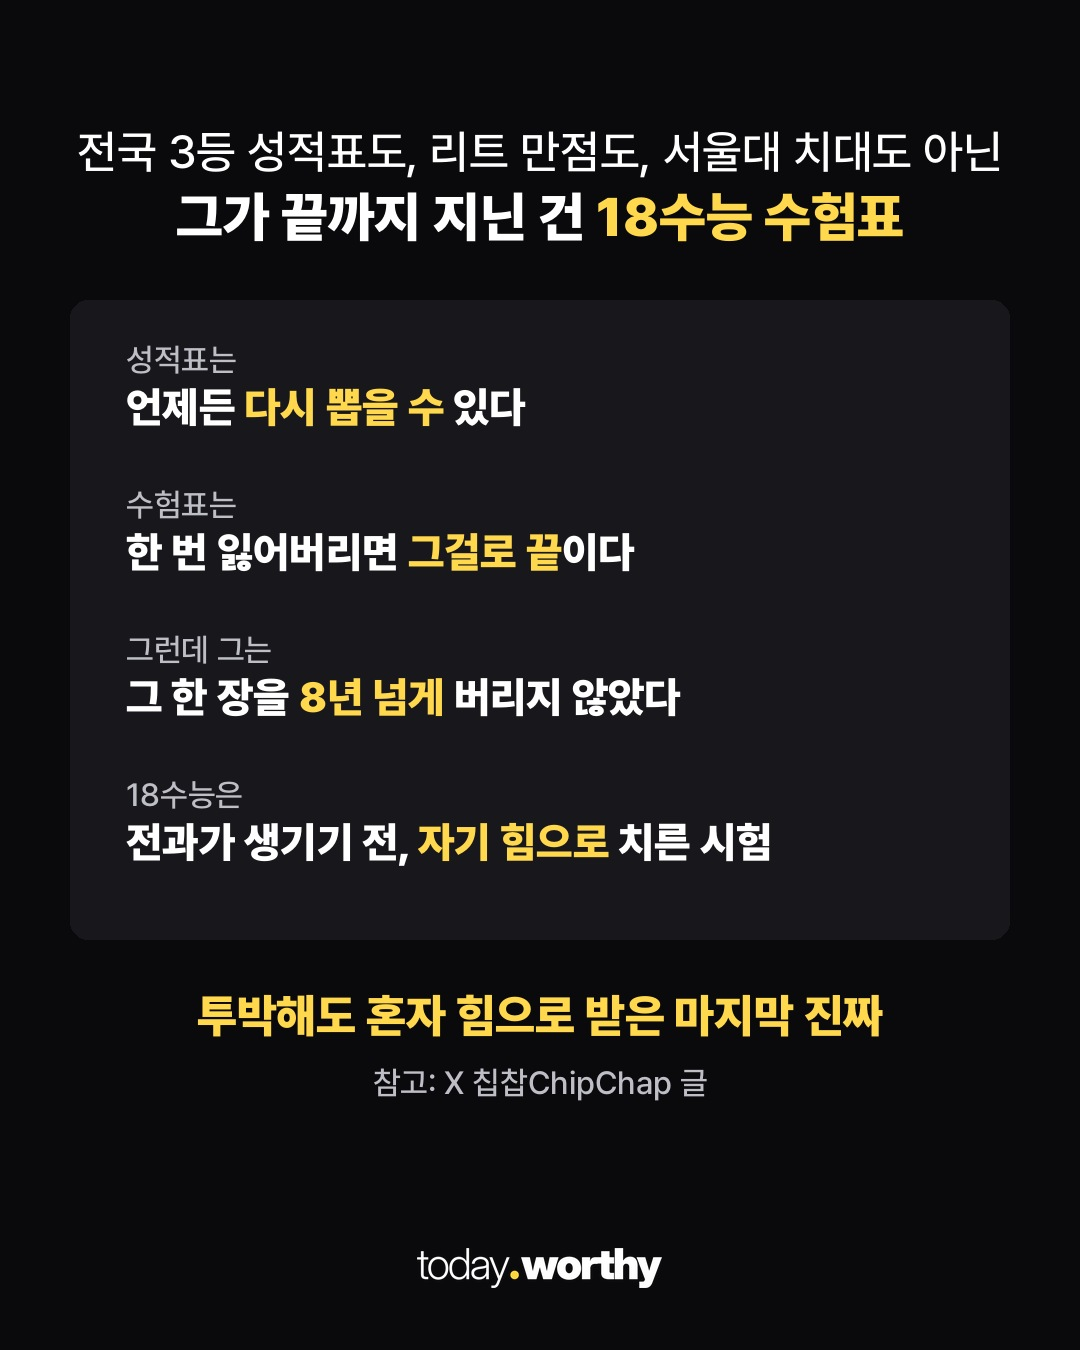
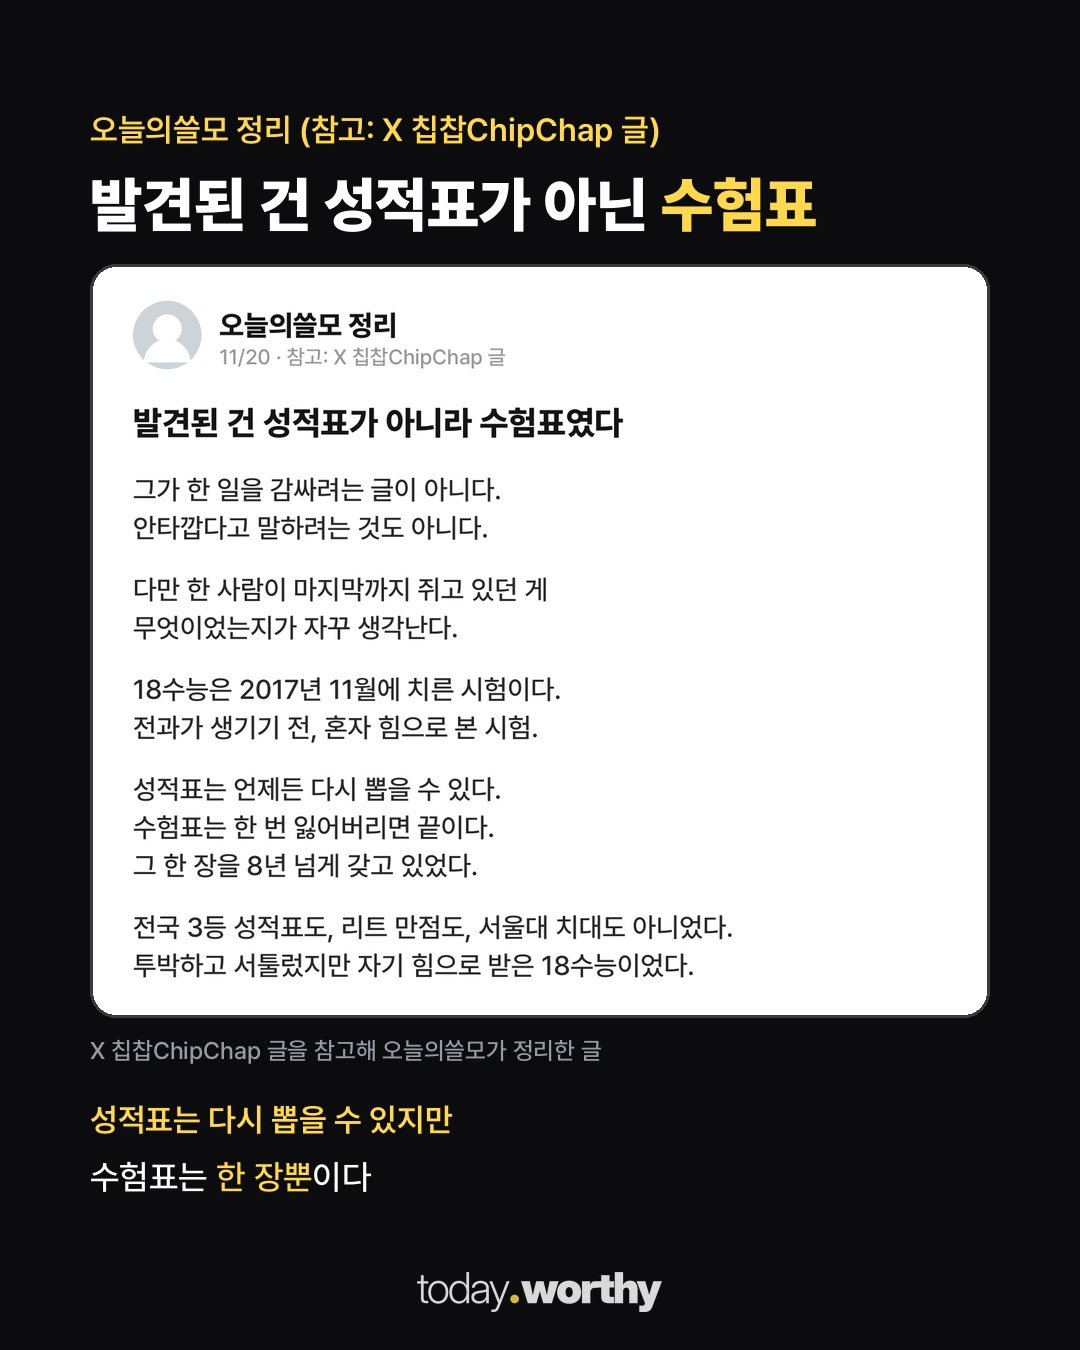
card: leetticket 5장 게시판형 우리 정리 글(게시 안 함)

diff --git a/media/20261119-leetticket/build_cards.py b/media/20261119-leetticket/build_cards.py
@@ -58,8 +58,24 @@ def panel(rows, h=640, gap=None):
     for i, (k, v) in enumerate(rows):
         y = 40 + i * gap; d.text((56, y), k, font=F("Medium", 32), fill=(190, 190, 198)); rich(d, 56, y + 42, v, F("Black", 42))
     return p
-frame(("전국 3등 성적표도, 리트 만점도, 서울대 치대도 아닌", "그가 끝까지 지닌 건 '18수능 수험표'"),
-      panel([("성적표는", "언제든 '다시 뽑을 수' 있다"), ("수험표는", "한 번 잃어버리면 '그걸로 끝'이다"),
-             ("그런데 그는", "그 한 장을 '8년 넘게' 버리지 않았다"), ("18수능은", "전과가 생기기 전, '자기 힘으로' 치른 시험")], h=640),
-      "투박해도 혼자 힘으로 받은 '마지막 진짜'", "참고: X 칩찹ChipChap 글").save(O / "c05.jpg", quality=93)
+# 게시판 글 느낌의 '우리 정리 글'(디시 로고·갤러리명·조회/추천 등 실제 사이트 요소 없음, 작성자 = 오늘의쓸모)
+post = Image.new("RGB", (1440, 1720), (255, 255, 255)); d = ImageDraw.Draw(post)
+d.ellipse((60, 50, 170, 160), fill=(205, 212, 216)); d.ellipse((92, 72, 138, 118), fill=(255, 255, 255)); d.pieslice((78, 112, 152, 186), 180, 360, fill=(255, 255, 255))
+d.text((200, 62), "오늘의쓸모 정리", font=F("ExtraBold", 46), fill=(20, 20, 20)); d.text((200, 120), "11/20 · 참고: X 칩찹ChipChap 글", font=F("Medium", 34), fill=(150, 150, 155))
+d.text((60, 215), "발견된 건 성적표가 아니라 수험표였다", font=F("ExtraBold", 54), fill=(20, 20, 20))
+body = ["그가 한 일을 감싸려는 글이 아니다.", "안타깝다고 말하려는 것도 아니다.", "",
+        "다만 한 사람이 마지막까지 쥐고 있던 게", "무엇이었는지가 자꾸 생각난다.", "",
+        "18수능은 2017년 11월에 치른 시험이다.", "전과가 생기기 전, 혼자 힘으로 본 시험.", "",
+        "성적표는 언제든 다시 뽑을 수 있다.", "수험표는 한 번 잃어버리면 끝이다.", "그 한 장을 8년 넘게 갖고 있었다.", "",
+        "전국 3등 성적표도, 리트 만점도, 서울대 치대도 아니었다.", "투박하고 서툴렀지만 자기 힘으로 받은 18수능이었다."]
+y = 330
+for ln in body:
+    if ln: d.text((60, y), ln, font=F("Medium", 44), fill=(40, 40, 44))
+    y += 62 if ln else 38
+post = post.crop((0, 0, 1440, y + 40)); post.save(O / "post_ours.jpg", quality=94)
+spec = [{"out": str(O / "c05.jpg"), "sub": "오늘의쓸모 정리 (참고: X 칩찹ChipChap 글)", "title": "발견된 건 성적표가 아닌 '수험표'",
+         "cap": str(O / "post_ours.jpg"), "cap_max_h": 780, "box_bg": [255, 255, 255], "caption": "X 칩찹ChipChap 글을 참고해 오늘의쓸모가 정리한 글",
+         "label": "성적표는 다시 뽑을 수 있지만", "lines": ["수험표는 '한 장뿐'이다"]}]
+(O / "spec5.json").write_text(json.dumps(spec, ensure_ascii=False))
+subprocess.run([sys.executable, str(R / "scripts/post_cap_card.py"), str(O / "spec5.json")], check=True)
 print("c05 ok")
